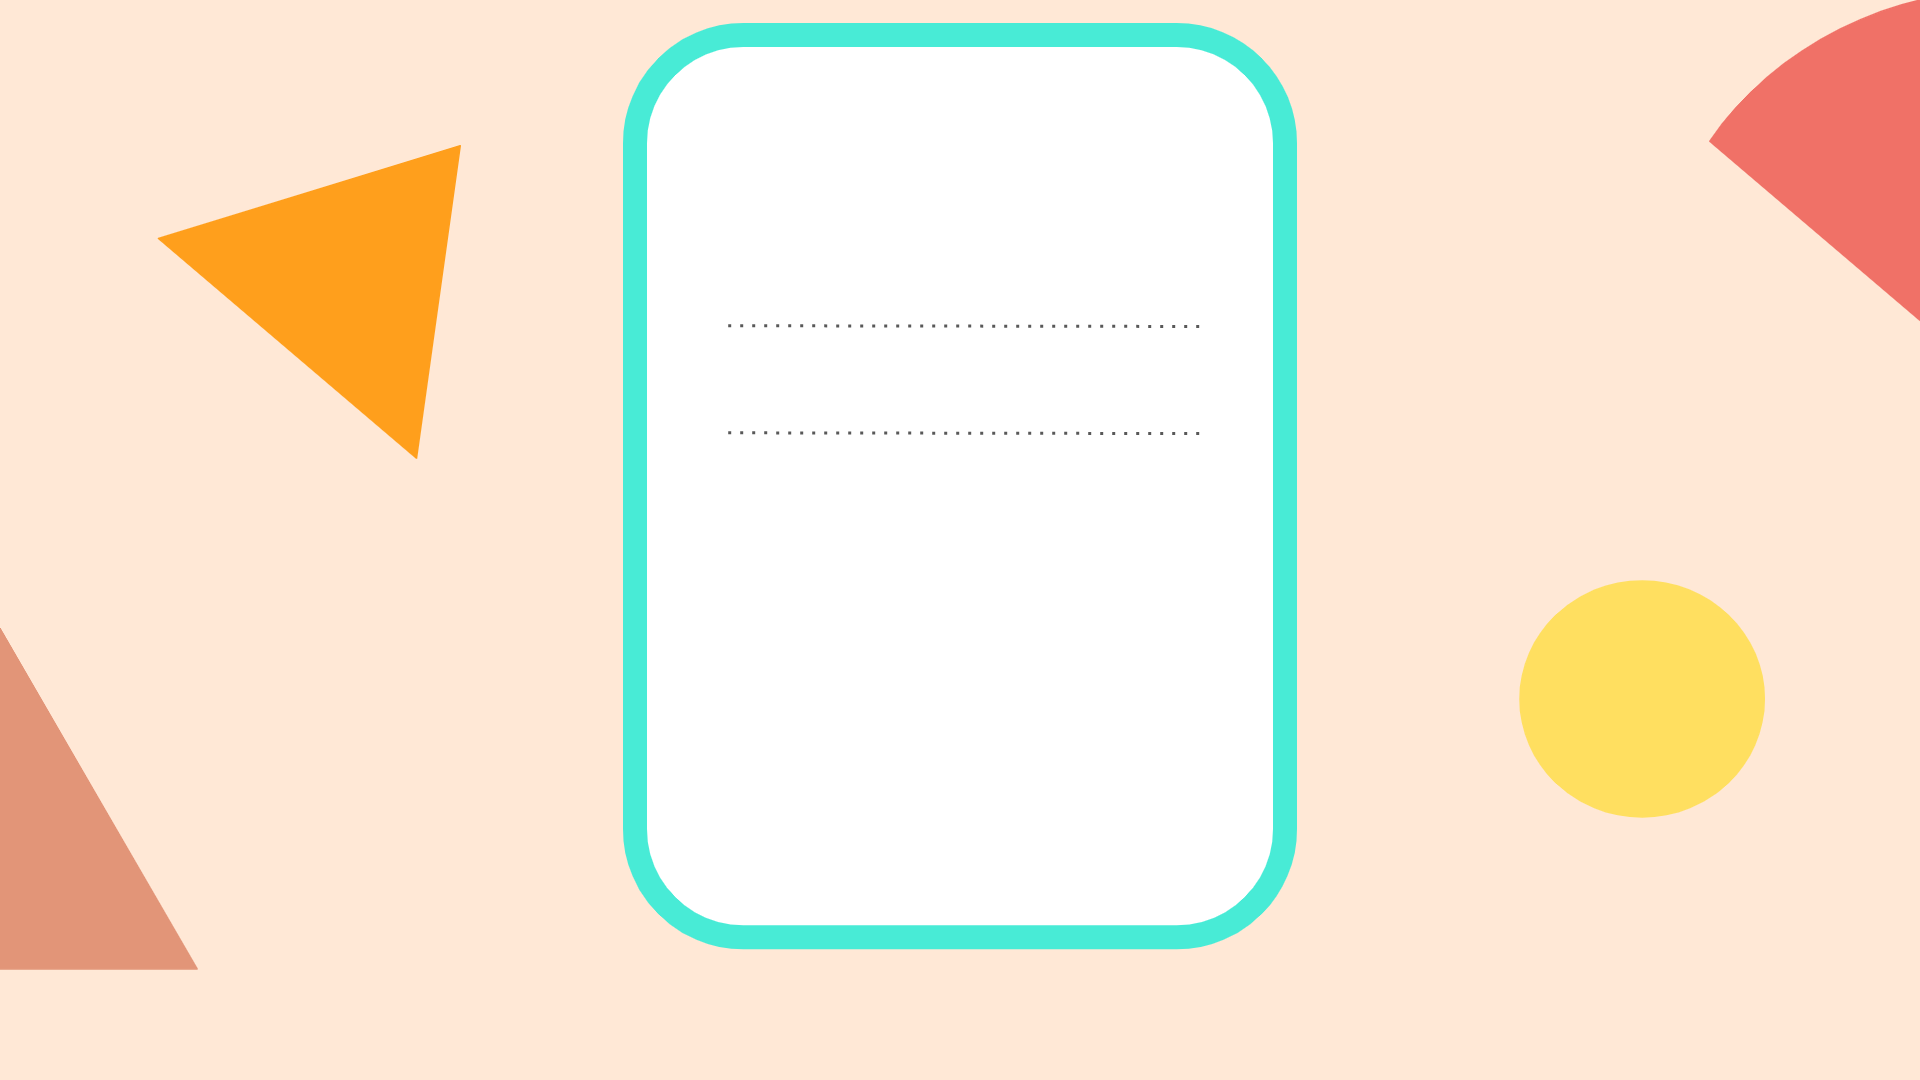
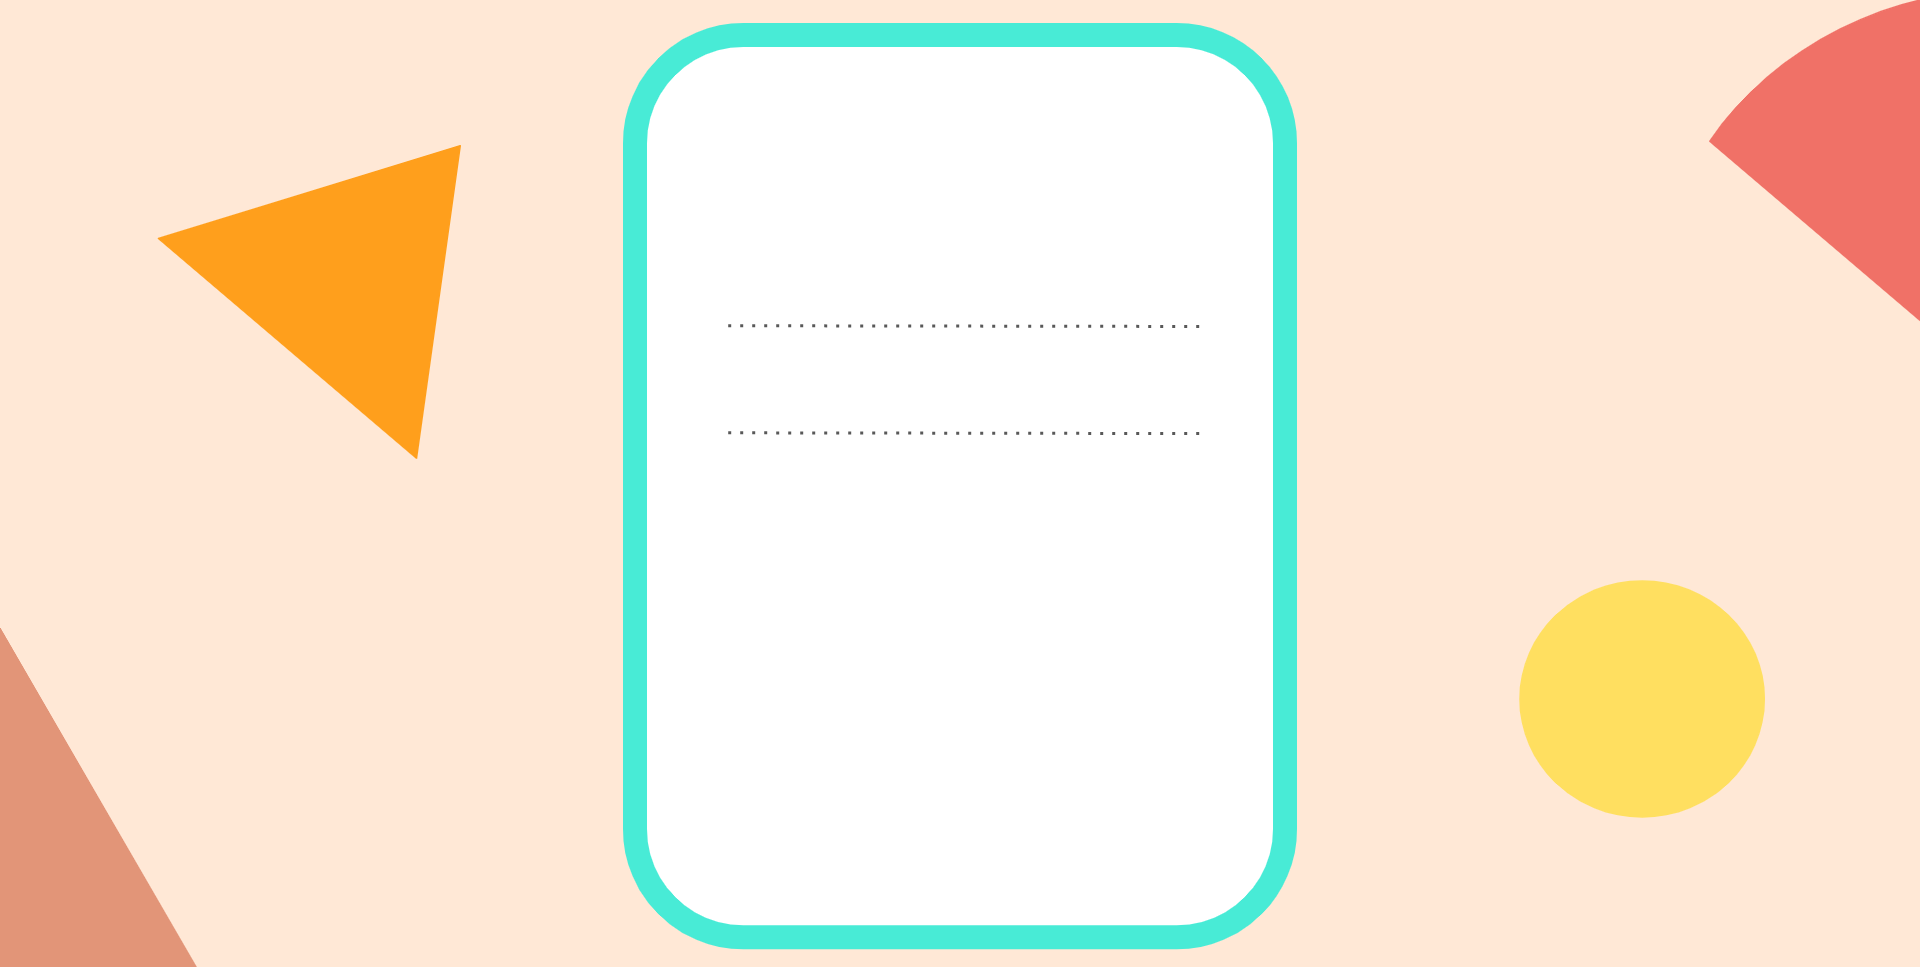
updated background

diff --git a/index.html b/index.html
@@ -10,7 +10,7 @@
     <body>
         <h1 style="padding-top: 2%"><u>Order</u></h1>
 
-        <br><p class="input-header" style="padding-top: 0.5%">Batch : <input id="batch" type="number" min="1" style="width: 13.4%"/></p>
+        <br><p class="input-header">Batch : <input id="batch" type="number" min="1" style="width: 13.4%"/></p>
         <p class="input-header" style="padding-top: 1.8%">Year : <input id="year" type="number" min="3" max="4" style="width: 15.5%"/></p>
 
         <p class="ord" style="padding-top: 3%" id="date"></p>

diff --git a/style.css b/style.css
@@ -9,6 +9,9 @@ html {
 body {
   background-image: url('background.png');
   user-select: none; /* treats text as image */
+  background-repeat: no-repeat;
+  background-attachment: fixed;
+  background-position: center;
 }
 
 h1 {
